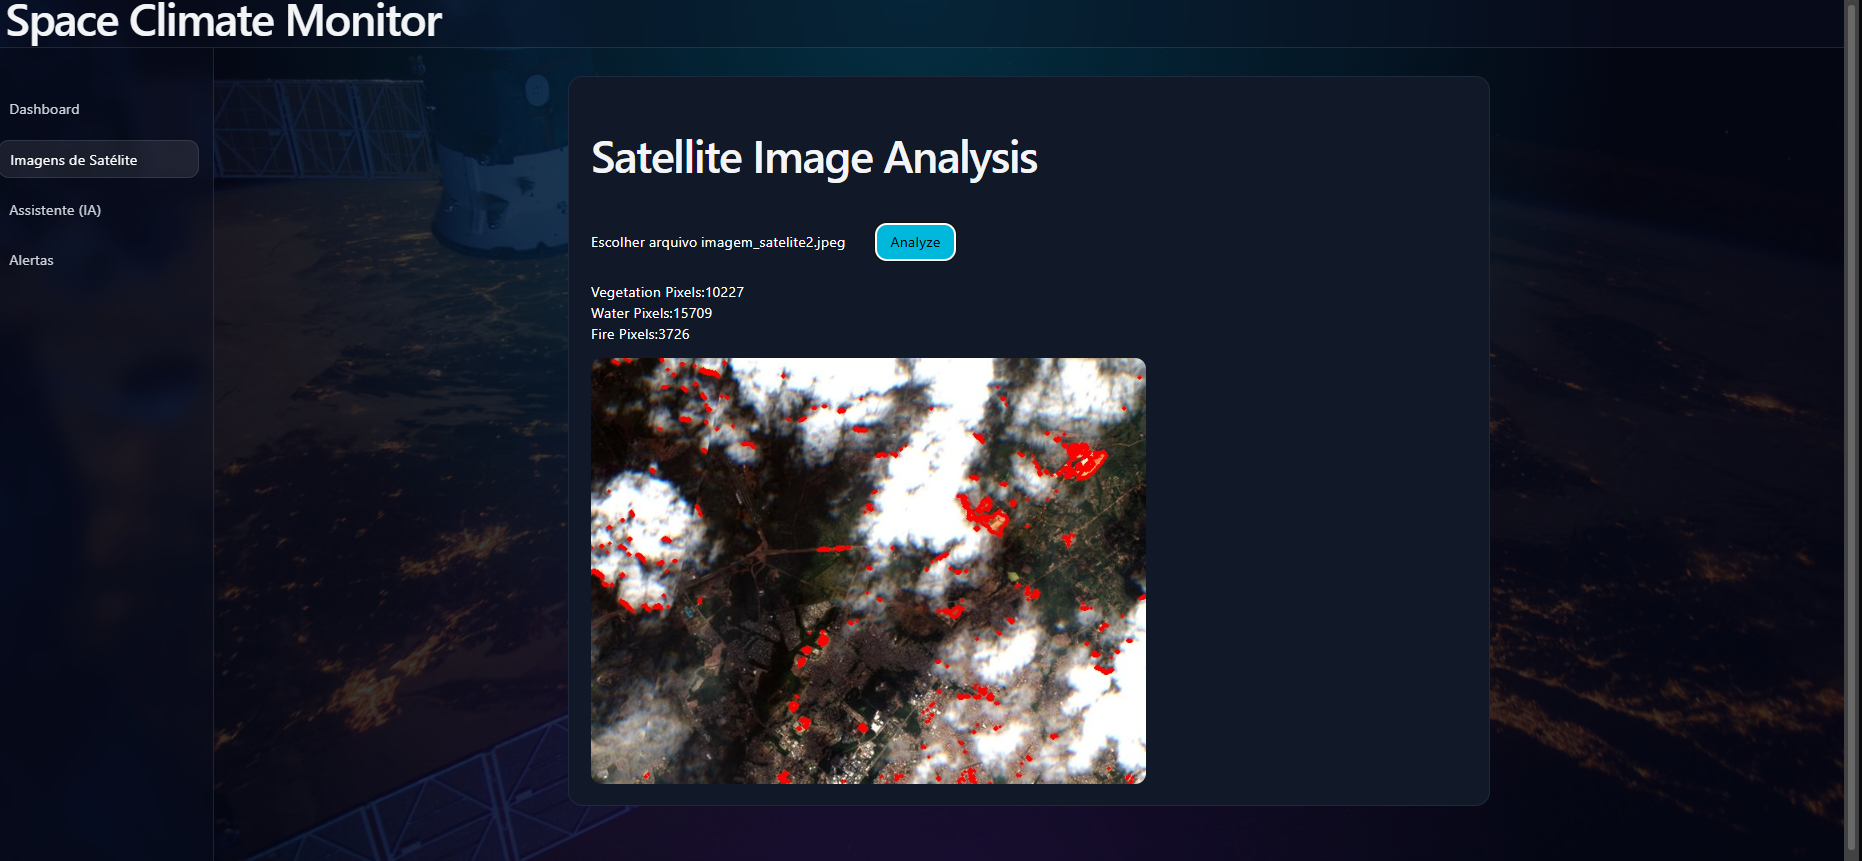
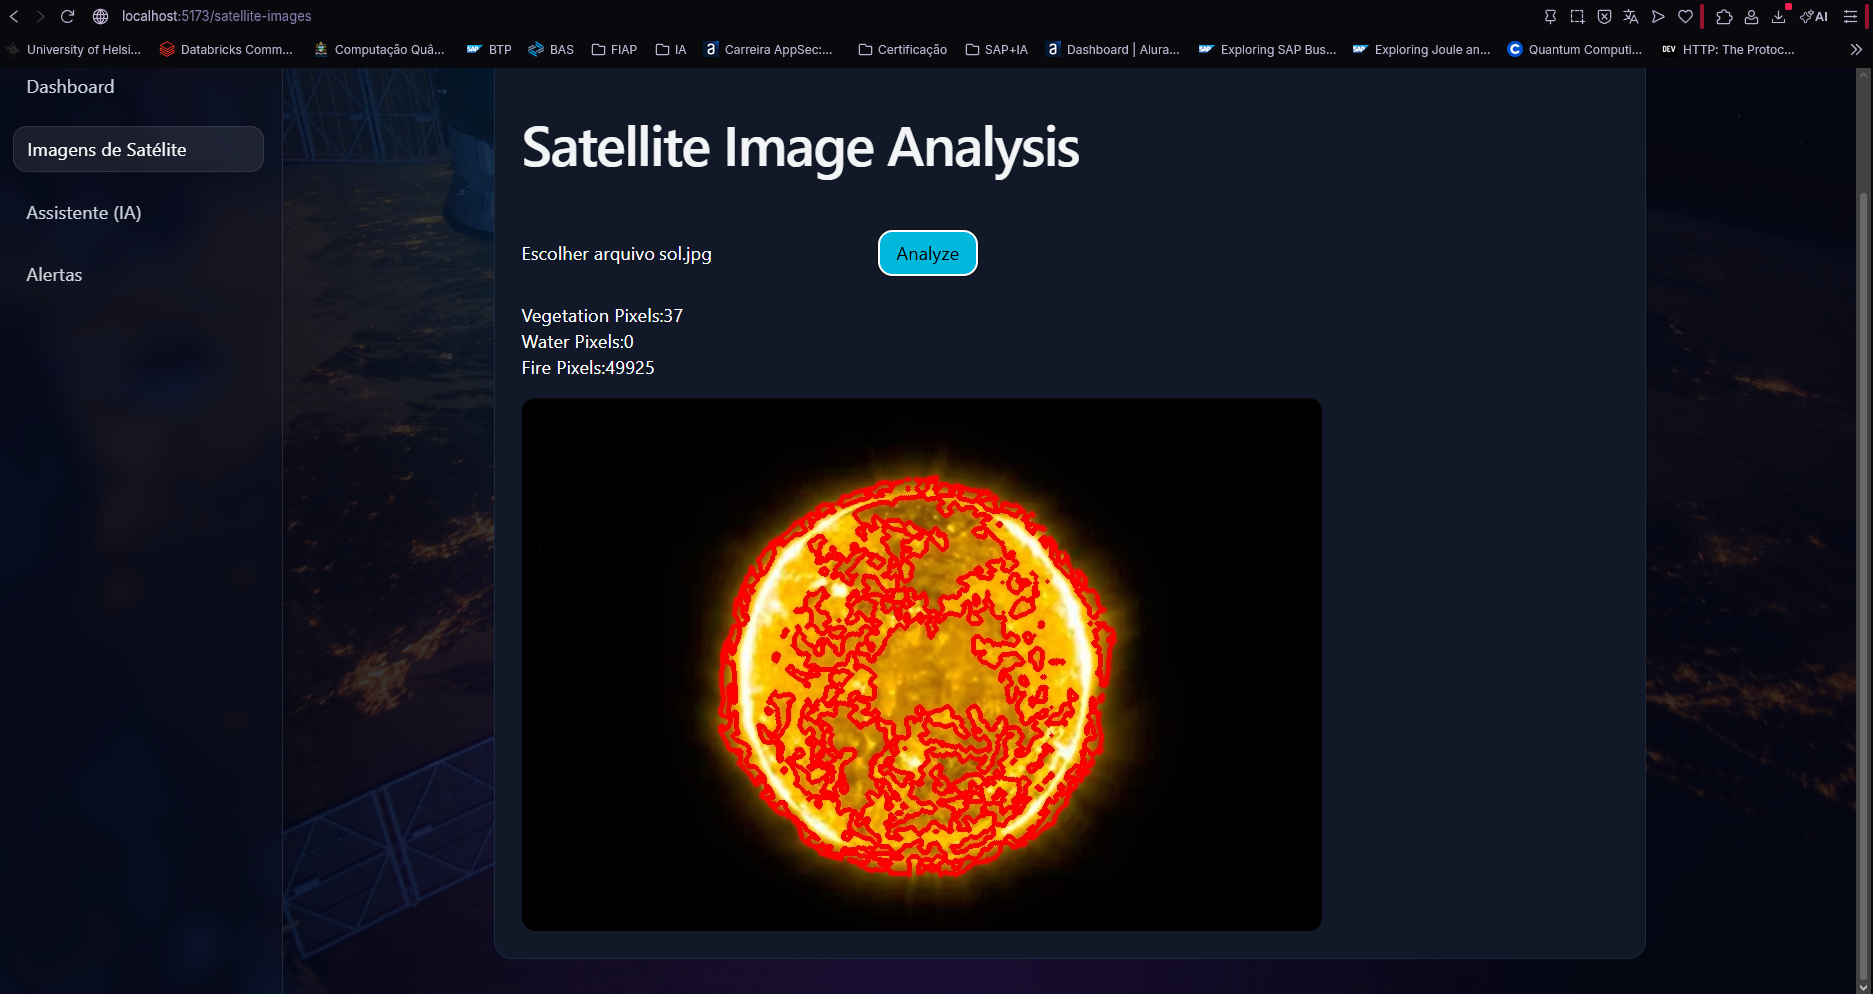
Version7

diff --git a/README.md b/README.md
@@ -199,7 +199,6 @@ flowchart TB
         EMB["Embeddings<br>(MiniLM)"]
         VDB[("Base Vetorial<br>ChromaDB")]
         RAG["RAG Engine"]
-        LLM["Ollama · Mistral"]
     end
 
     subgraph Frontend
@@ -250,7 +249,6 @@ Fontes externas (NOAA, NASA, SOHO, SDO)
 |--------|------------|
 | **Frontend** | [React](https://react.dev/) + [Vite](https://vitejs.dev/) |
 | **Backend** | [FastAPI](https://fastapi.tiangolo.com/) (Python) |
-| **LLM local** | [Ollama](https://ollama.com/) + modelo `mistral` |
 | **RAG / Embeddings** | `sentence-transformers/all-MiniLM-L6-v2` |
 | **Base Vetorial** | [ChromaDB](https://www.trychroma.com/) |
 | **Visão Computacional** | [OpenCV](https://opencv.org/) / [YOLO](https://github.com/ultralytics/ultralytics) |
@@ -317,12 +315,8 @@ space-climate-monitor/
 
 1. **Python 3.10+**
 2. **Node.js 18+**
-3. **Ollama** instalado e em execução
-4. Modelo **mistral** baixado no Ollama:
-   ```bash
-   ollama pull mistral
-   ```
-5. **Chave de API** para fontes de dados (NOAA SWPC, NASA DONKI) — gratuitas e abertas
+3. **Chave de API - Modelo de LLM**
+4. **Chave de API** para fontes de dados (NOAA SWPC, NASA DONKI) — gratuitas e abertas
 
 ---
 
@@ -379,8 +373,7 @@ A interface foi desenvolvida com **React + Vite**:
 | Aspecto | Abordagem |
 |---------|-----------|
 | **Dados utilizados** | Fontes públicas e abertas (NOAA, NASA) — sem dados sensíveis |
-| **Armazenamento local** | Base vetorial e cache processados localmente |
-| **LLM local** | Ollama — nenhum dado enviado para nuvem |
+| **Armazenamento** | Base vetorial e cache processados localmente |
 | **Guardrails da IA** | Sem recomendações operacionais críticas sem validação humana |
 | **Transparência** | Todas as fontes e previsões são referenciadas com data/hora e nível de confiança |
 | **Responsabilidade** | Aviso na interface: sistema de apoio à decisão, não substitui fontes oficiais |
